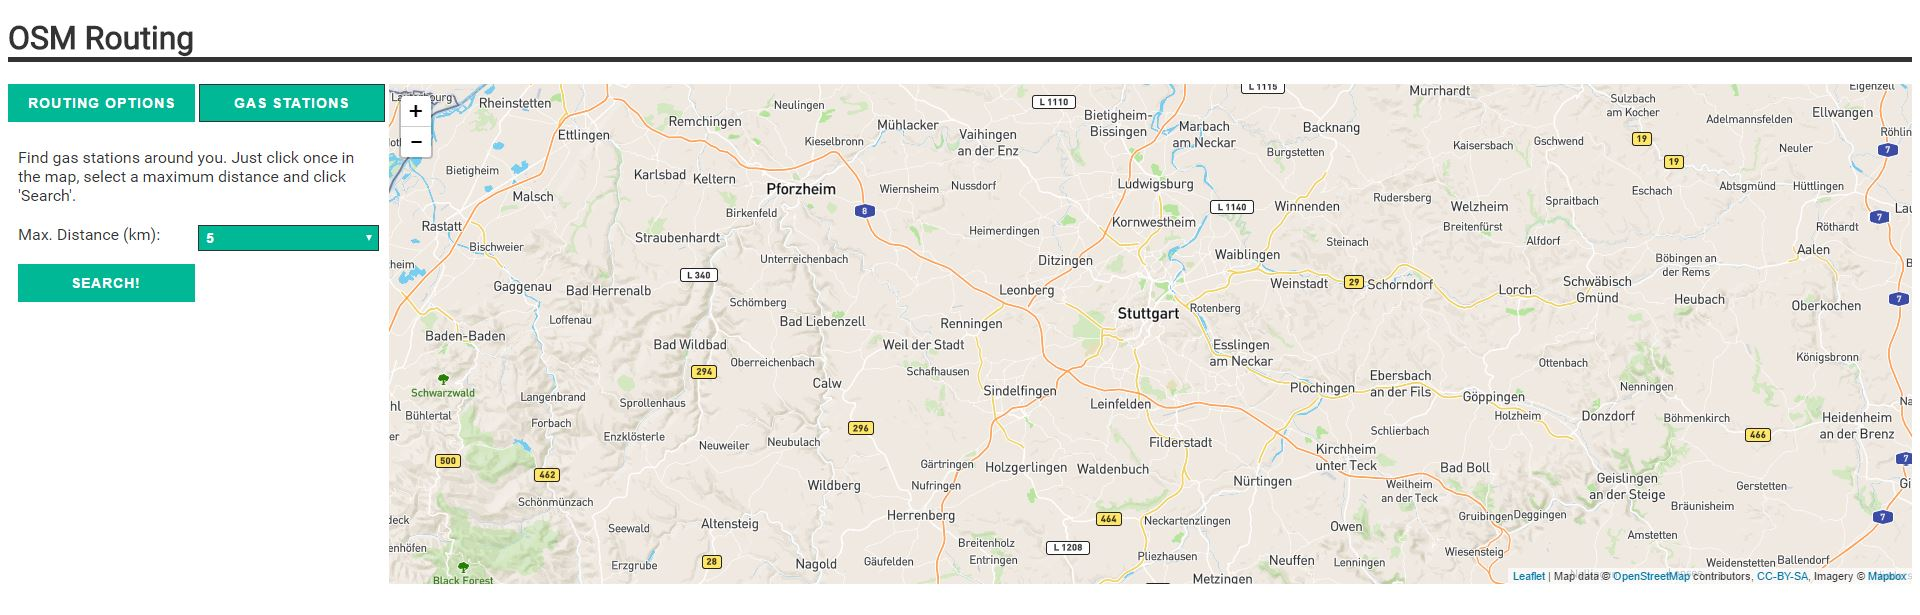
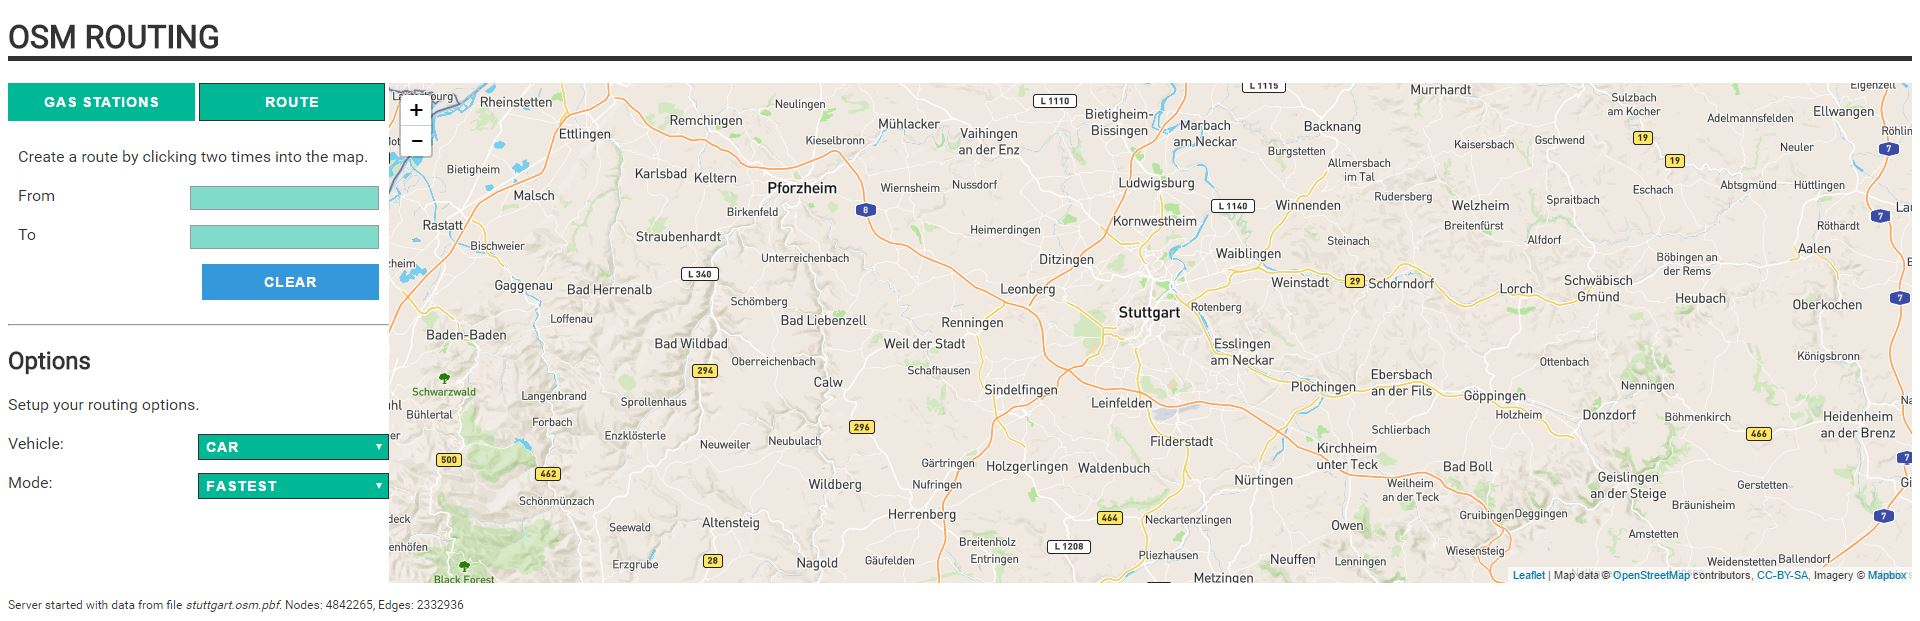
updated UI to be hopefully more intuitive

diff --git a/src/main/resources/assets/index.html b/src/main/resources/assets/index.html
@@ -24,7 +24,7 @@
     <div id="navigation">
       <div class="tabs">
         <button value="gasstations" class="active">Gas Stations</button>
-        <button value="routing">Routing Options</button>
+        <button value="routing">Route</button>
       </div>
       <div id="gasstations" class="navPart">
         <p>Find gas stations around you.</p>
@@ -32,7 +32,7 @@
           <li>Click into the map.</li>
           <li>Select a maximum distance.</li>
           <li>Click 'Search'.</li>
-          <li>Select a gas station by clicking on it.</li>
+          <li>Route to a gas station by clicking on it.</li>
         </ol>
         <form>
           <div class="form-group">
@@ -44,11 +44,28 @@
               <option>50</option>
             </select>
           </div>
-          <button type="button" name="search">Search!</button>
+          <button type="button" name="search">Search</button>
+          <button type="button" name="route_clear">Clear</button>
         </form>
       </div>
       <div id="routing" class="navPart">
-        <p>Setup your routing options. Then just click two times on the map and a route gets calculated.</p>
+        <p>Create a route by clicking two times into the map.</p>
+        <form id="route">
+          <div class="form-group">
+            <label for="route_from">From</label>
+            <input type="text" id="route_from" disabled />
+          </div>
+          <div class="form-group">
+            <label for="route_to">To</label>
+            <input type="text" id="route_to" disabled />
+          </div>
+          <button type="button" name="route_clear">Clear</button>
+        </form>
+      </div>
+      <hr/>
+      <div id="options">
+        <h2>Options</h2>
+        <p>Setup your routing options.</p>
         <form>
           <div class="form-group">
             <label for="vehicle">Vehicle: </label>

diff --git a/src/main/resources/assets/js/index.js b/src/main/resources/assets/js/index.js
@@ -70,6 +70,13 @@ $(document).ready(function () {
     getGasStations();
   });
 
+  $('button[name="route_clear"]').on('click', function () {
+    resetMap();
+    $('#error').hide();
+    $('#route_from').val('');
+    $('#route_to').val('');
+  });
+
   // helper functions
   function getGasStations() {
     removePolyline();
@@ -112,6 +119,8 @@ $(document).ready(function () {
 
   function sendRequest(startPoint, endPoint) {
     $('#error').hide();
+    $('#route_from').val(pointToString(startPoint));
+    $('#route_to').val(pointToString(endPoint));
     var url = getRequestUrl(startPoint, endPoint);
     console.log('Sending request to: ', url);
     $.ajax({
@@ -201,6 +210,14 @@ $(document).ready(function () {
     }
 
     markers.push(marker.addTo(map));
+  }
+
+  function pointToString(point) {
+    if (!!point && point.length == 2) {
+      return point[0] + ', ' + point[1];
+    } else {
+      return 'Missing point data.';
+    }
   }
 
   function getMetaData() {

diff --git a/src/main/resources/assets/css/index.css b/src/main/resources/assets/css/index.css
@@ -29,6 +29,7 @@ html {
 
 #routing {
   display: none;
+  margin-bottom: 50px;
 }
 
 #mapContainer {
@@ -57,6 +58,7 @@ button {
   text-transform: uppercase;
   padding: 10px;
   width: 49%;
+  cursor: pointer;
 }
 
 button:focus {
@@ -67,6 +69,17 @@ button:hover {
   border: 1px solid #333333;
 }
 
+form > button, form > button:hover {
+  background: #007dd1;
+  border: none;
+}
+
+button[name="route_clear"] {
+  float: right;
+  background: #3498DB !important;
+  /*opacity: 0.5;*/
+}
+
 .tabs button.active {
   border: 1px solid #333333;
 }
@@ -75,7 +88,7 @@ button:hover {
   margin: 20px 0px;
 }
 
-.form-group select {
+.form-group select, .form-group input {
   border: 1px solid #333;
   background: #00B796;
   color: #fff;
@@ -86,6 +99,11 @@ button:hover {
   padding: 3px;
   float: right;
   width: 50%;
+}
+
+.form-group *:disabled {
+  background: #00B796;
+  opacity: 0.5;
 }
 
 .navPart {
